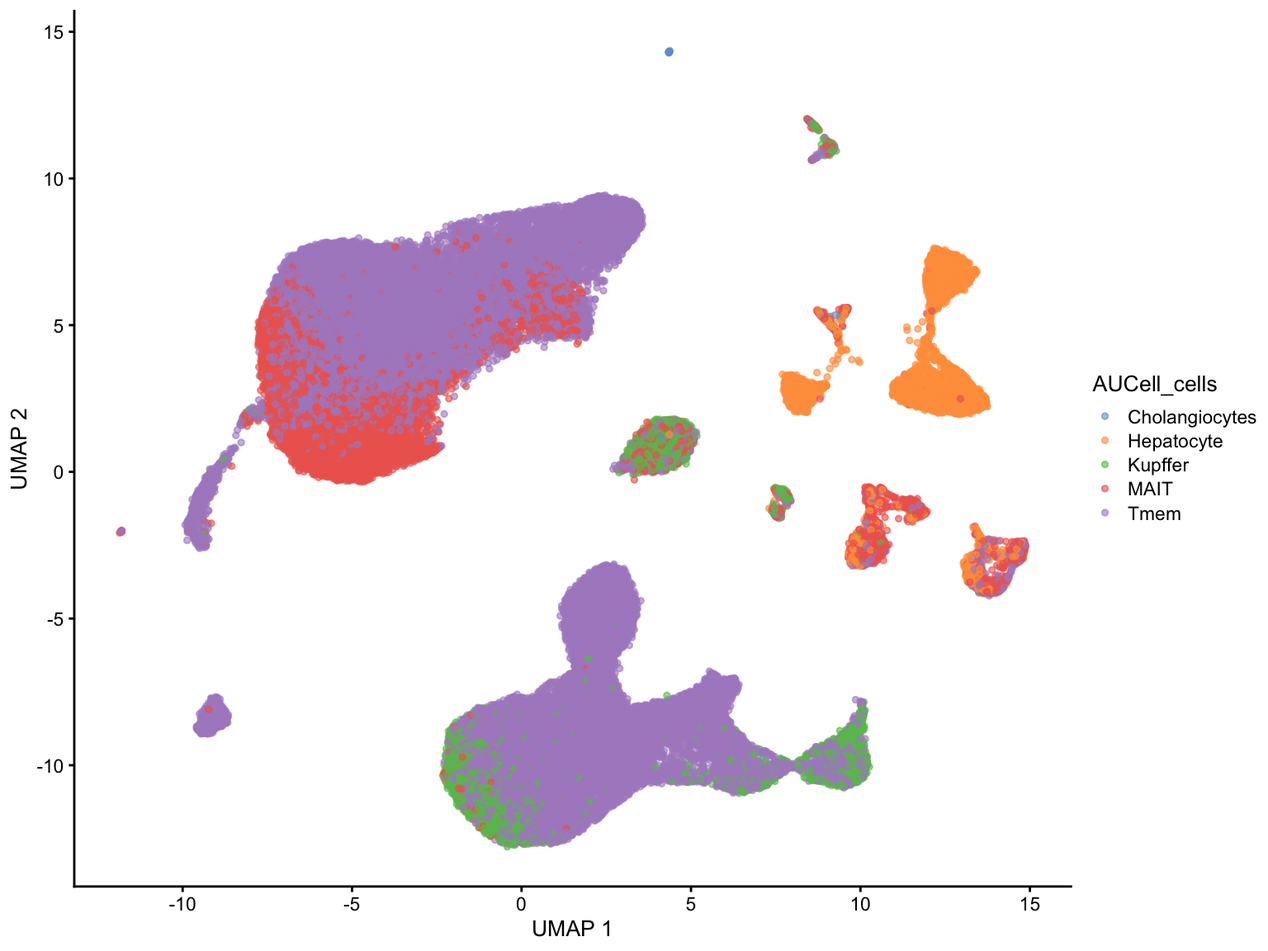
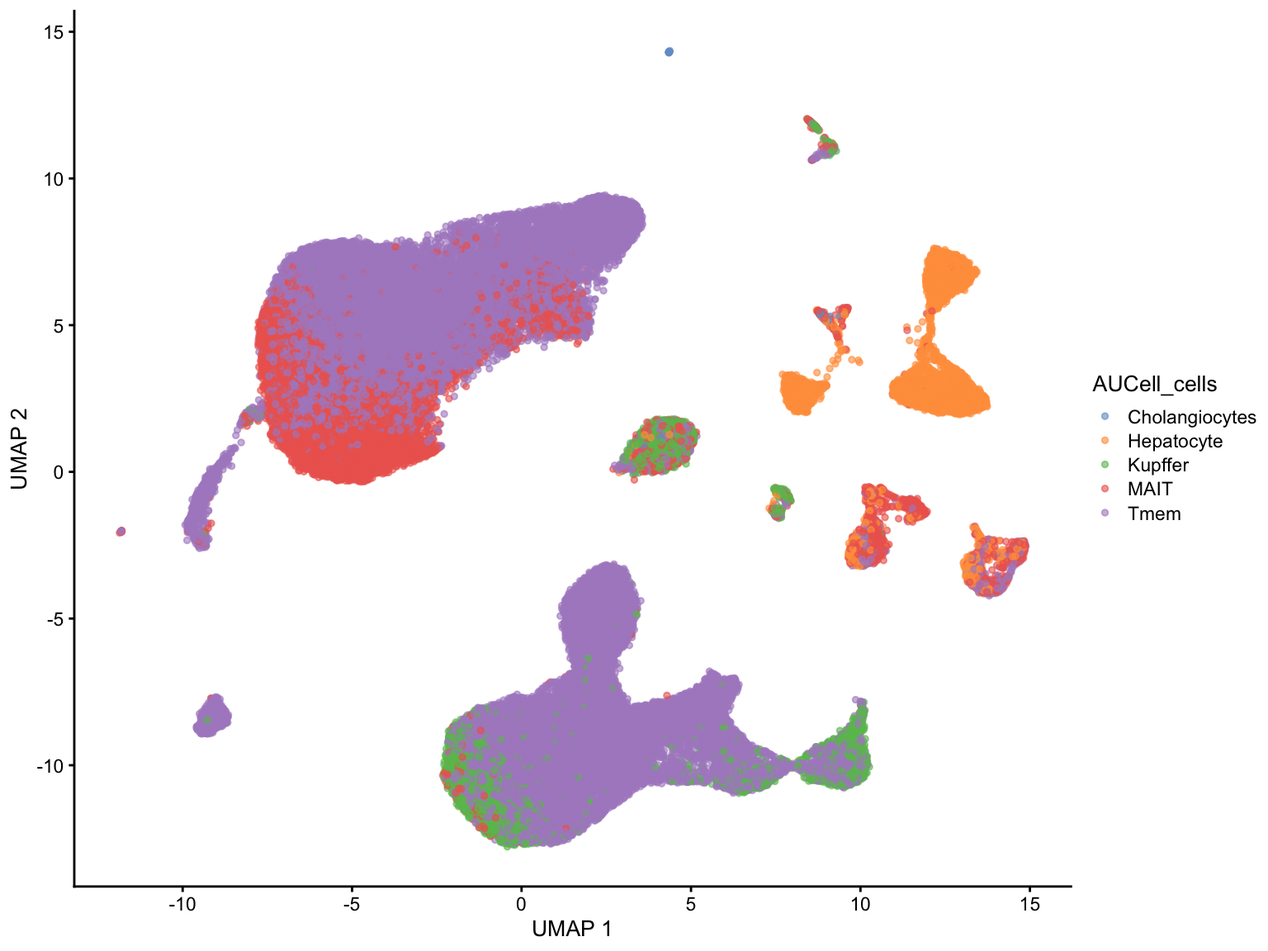
adjustments

diff --git a/R/6_Guilliams_dataset_analysis.html b/R/6_Guilliams_dataset_analysis.html
@@ -165,25 +165,14 @@ background: #f0f3f5;
 <div class="cell">
 <details>
 <summary>Code</summary>
-<div class="sourceCode cell-code" id="cb1"><pre class="sourceCode r code-with-copy"><code class="sourceCode r"><span id="cb1-1"><a href="#cb1-1" aria-hidden="true" tabindex="-1"></a><span class="fu">getwd</span>()</span></code><button title="Copy to Clipboard" class="code-copy-button"><i class="bi"></i></button></pre></div>
-</details>
-<div class="cell-output cell-output-stdout">
-<pre><code>[1] "/Users/osinnii/Documents/Github/scRNA-seq-workflow/scRNA-seq-workflow/R"</code></pre>
-</div>
-<details>
-<summary>Code</summary>
-<div class="sourceCode cell-code" id="cb3"><pre class="sourceCode r code-with-copy"><code class="sourceCode r"><span id="cb3-1"><a href="#cb3-1" aria-hidden="true" tabindex="-1"></a><span class="fu">library</span>(SingleCellExperiment)</span>
-<span id="cb3-2"><a href="#cb3-2" aria-hidden="true" tabindex="-1"></a><span class="fu">library</span>(SummarizedExperiment)</span>
-<span id="cb3-3"><a href="#cb3-3" aria-hidden="true" tabindex="-1"></a><span class="fu">library</span>(RSQLite)</span>
-<span id="cb3-4"><a href="#cb3-4" aria-hidden="true" tabindex="-1"></a><span class="fu">library</span>(AUCell)</span>
-<span id="cb3-5"><a href="#cb3-5" aria-hidden="true" tabindex="-1"></a><span class="fu">library</span>(ggplot2)</span>
-<span id="cb3-6"><a href="#cb3-6" aria-hidden="true" tabindex="-1"></a><span class="fu">library</span>(RColorBrewer)</span>
-<span id="cb3-7"><a href="#cb3-7" aria-hidden="true" tabindex="-1"></a><span class="fu">library</span>(tidyverse)</span>
-<span id="cb3-8"><a href="#cb3-8" aria-hidden="true" tabindex="-1"></a><span class="fu">library</span>(readxl)</span>
-<span id="cb3-9"><a href="#cb3-9" aria-hidden="true" tabindex="-1"></a><span class="fu">library</span>(scater)</span>
-<span id="cb3-10"><a href="#cb3-10" aria-hidden="true" tabindex="-1"></a><span class="fu">library</span>(uwot)</span>
-<span id="cb3-11"><a href="#cb3-11" aria-hidden="true" tabindex="-1"></a><span class="fu">library</span>(GSEABase)</span>
-<span id="cb3-12"><a href="#cb3-12" aria-hidden="true" tabindex="-1"></a><span class="fu">library</span>(Seurat)</span></code><button title="Copy to Clipboard" class="code-copy-button"><i class="bi"></i></button></pre></div>
+<div class="sourceCode cell-code" id="cb1"><pre class="sourceCode r code-with-copy"><code class="sourceCode r"><span id="cb1-1"><a href="#cb1-1" aria-hidden="true" tabindex="-1"></a><span class="fu">library</span>(SingleCellExperiment)</span>
+<span id="cb1-2"><a href="#cb1-2" aria-hidden="true" tabindex="-1"></a><span class="fu">library</span>(AUCell)</span>
+<span id="cb1-3"><a href="#cb1-3" aria-hidden="true" tabindex="-1"></a><span class="fu">library</span>(tidyverse)</span>
+<span id="cb1-4"><a href="#cb1-4" aria-hidden="true" tabindex="-1"></a><span class="fu">library</span>(scater)</span>
+<span id="cb1-5"><a href="#cb1-5" aria-hidden="true" tabindex="-1"></a><span class="fu">library</span>(uwot)</span>
+<span id="cb1-6"><a href="#cb1-6" aria-hidden="true" tabindex="-1"></a><span class="fu">library</span>(GSEABase)</span>
+<span id="cb1-7"><a href="#cb1-7" aria-hidden="true" tabindex="-1"></a><span class="fu">library</span>(Seurat)</span>
+<span id="cb1-8"><a href="#cb1-8" aria-hidden="true" tabindex="-1"></a><span class="fu">library</span>(readxl)</span></code><button title="Copy to Clipboard" class="code-copy-button"><i class="bi"></i></button></pre></div>
 </details>
 </div>
 <section id="load-previously-processed-guillaums-dataset-check-cells-on-umap." class="level3" data-number="2.0.1">
@@ -192,8 +181,8 @@ background: #f0f3f5;
 <div class="cell">
 <details>
 <summary>Code</summary>
-<div class="sourceCode cell-code" id="cb4"><pre class="sourceCode r code-with-copy"><code class="sourceCode r"><span id="cb4-1"><a href="#cb4-1" aria-hidden="true" tabindex="-1"></a>Gil.seurat <span class="ot">&lt;-</span> <span class="fu">readRDS</span>(<span class="st">"./../input/Gil_analyzed.rds"</span>)</span>
-<span id="cb4-2"><a href="#cb4-2" aria-hidden="true" tabindex="-1"></a>Gil.seurat</span></code><button title="Copy to Clipboard" class="code-copy-button"><i class="bi"></i></button></pre></div>
+<div class="sourceCode cell-code" id="cb2"><pre class="sourceCode r code-with-copy"><code class="sourceCode r"><span id="cb2-1"><a href="#cb2-1" aria-hidden="true" tabindex="-1"></a>Gil.seurat <span class="ot">&lt;-</span> <span class="fu">readRDS</span>(<span class="st">"./../input/Gil_analyzed.rds"</span>)</span>
+<span id="cb2-2"><a href="#cb2-2" aria-hidden="true" tabindex="-1"></a>Gil.seurat</span></code><button title="Copy to Clipboard" class="code-copy-button"><i class="bi"></i></button></pre></div>
 </details>
 <div class="cell-output cell-output-stdout">
 <pre><code>An object of class Seurat 
@@ -204,10 +193,7 @@ Active assay: RNA (28871 features, 2000 variable features)
 </div>
 <details>
 <summary>Code</summary>
-<div class="sourceCode cell-code" id="cb6"><pre class="sourceCode r code-with-copy"><code class="sourceCode r"><span id="cb6-1"><a href="#cb6-1" aria-hidden="true" tabindex="-1"></a><span class="co"># rm(Gil.seurat)</span></span>
-<span id="cb6-2"><a href="#cb6-2" aria-hidden="true" tabindex="-1"></a><span class="co"># lett.sce$MonacoImmuneData &lt;- lett.sce@colData@listData[["cellReferences_celldex_MonacoImmuneData"]]@listData[["labels"]]</span></span>
-<span id="cb6-3"><a href="#cb6-3" aria-hidden="true" tabindex="-1"></a></span>
-<span id="cb6-4"><a href="#cb6-4" aria-hidden="true" tabindex="-1"></a><span class="fu">DimPlot</span>(Gil.seurat, <span class="at">reduction =</span> <span class="st">"umap"</span>, <span class="at">group.by =</span> <span class="st">"annot"</span>, <span class="at">pt.size =</span> <span class="fl">1.0</span>)</span></code><button title="Copy to Clipboard" class="code-copy-button"><i class="bi"></i></button></pre></div>
+<div class="sourceCode cell-code" id="cb4"><pre class="sourceCode r code-with-copy"><code class="sourceCode r"><span id="cb4-1"><a href="#cb4-1" aria-hidden="true" tabindex="-1"></a><span class="fu">DimPlot</span>(Gil.seurat, <span class="at">reduction =</span> <span class="st">"umap"</span>, <span class="at">group.by =</span> <span class="st">"annot"</span>, <span class="at">pt.size =</span> <span class="fl">1.0</span>)</span></code><button title="Copy to Clipboard" class="code-copy-button"><i class="bi"></i></button></pre></div>
 </details>
 <div class="cell-output-display">
 <p><img src="6_Guilliams_dataset_analysis_files/figure-html/unnamed-chunk-2-1.png" class="img-fluid" width="768"></p>
@@ -220,10 +206,10 @@ Active assay: RNA (28871 features, 2000 variable features)
 <div class="cell">
 <details>
 <summary>Code</summary>
-<div class="sourceCode cell-code" id="cb7"><pre class="sourceCode r code-with-copy"><code class="sourceCode r"><span id="cb7-1"><a href="#cb7-1" aria-hidden="true" tabindex="-1"></a>sce_obj <span class="ot">&lt;-</span> <span class="fu">as.SingleCellExperiment</span>(Gil.seurat)</span>
-<span id="cb7-2"><a href="#cb7-2" aria-hidden="true" tabindex="-1"></a>Gil.sce <span class="ot">&lt;-</span> sce_obj</span>
-<span id="cb7-3"><a href="#cb7-3" aria-hidden="true" tabindex="-1"></a><span class="fu">rm</span>(Gil.seurat)</span>
-<span id="cb7-4"><a href="#cb7-4" aria-hidden="true" tabindex="-1"></a><span class="fu">rm</span>(sce_obj)</span></code><button title="Copy to Clipboard" class="code-copy-button"><i class="bi"></i></button></pre></div>
+<div class="sourceCode cell-code" id="cb5"><pre class="sourceCode r code-with-copy"><code class="sourceCode r"><span id="cb5-1"><a href="#cb5-1" aria-hidden="true" tabindex="-1"></a>sce_obj <span class="ot">&lt;-</span> <span class="fu">as.SingleCellExperiment</span>(Gil.seurat)</span>
+<span id="cb5-2"><a href="#cb5-2" aria-hidden="true" tabindex="-1"></a>Gil.sce <span class="ot">&lt;-</span> sce_obj</span>
+<span id="cb5-3"><a href="#cb5-3" aria-hidden="true" tabindex="-1"></a><span class="fu">rm</span>(Gil.seurat)</span>
+<span id="cb5-4"><a href="#cb5-4" aria-hidden="true" tabindex="-1"></a><span class="fu">rm</span>(sce_obj)</span></code><button title="Copy to Clipboard" class="code-copy-button"><i class="bi"></i></button></pre></div>
 </details>
 </div>
 </section>
@@ -233,7 +219,7 @@ Active assay: RNA (28871 features, 2000 variable features)
 <div class="cell">
 <details>
 <summary>Code</summary>
-<div class="sourceCode cell-code" id="cb8"><pre class="sourceCode r code-with-copy"><code class="sourceCode r"><span id="cb8-1"><a href="#cb8-1" aria-hidden="true" tabindex="-1"></a>genes <span class="ot">&lt;-</span><span class="fu">read_excel</span>(<span class="st">"./../input/CellMarkerMAITcells.xlsx"</span>, <span class="at">sheet =</span> <span class="dv">2</span>, <span class="at">col_names =</span> <span class="cn">TRUE</span>) <span class="do">## Garner and Pangao cell markers list</span></span></code><button title="Copy to Clipboard" class="code-copy-button"><i class="bi"></i></button></pre></div>
+<div class="sourceCode cell-code" id="cb6"><pre class="sourceCode r code-with-copy"><code class="sourceCode r"><span id="cb6-1"><a href="#cb6-1" aria-hidden="true" tabindex="-1"></a>genes <span class="ot">&lt;-</span><span class="fu">read_excel</span>(<span class="st">"./../input/CellMarkerMAITcells.xlsx"</span>, <span class="at">sheet =</span> <span class="dv">2</span>, <span class="at">col_names =</span> <span class="cn">TRUE</span>) <span class="do">## Garner and Pangao cell markers list</span></span></code><button title="Copy to Clipboard" class="code-copy-button"><i class="bi"></i></button></pre></div>
 </details>
 </div>
 </section>
@@ -245,10 +231,10 @@ Active assay: RNA (28871 features, 2000 variable features)
 <div class="cell">
 <details>
 <summary>Code</summary>
-<div class="sourceCode cell-code" id="cb9"><pre class="sourceCode r code-with-copy"><code class="sourceCode r"><span id="cb9-1"><a href="#cb9-1" aria-hidden="true" tabindex="-1"></a>all.sets <span class="ot">&lt;-</span> <span class="fu">lapply</span>(<span class="fu">names</span>(genes), <span class="cf">function</span>(x) {</span>
-<span id="cb9-2"><a href="#cb9-2" aria-hidden="true" tabindex="-1"></a>  <span class="fu">GeneSet</span>(genes[[x]], <span class="at">setName=</span>x)        </span>
-<span id="cb9-3"><a href="#cb9-3" aria-hidden="true" tabindex="-1"></a>})</span>
-<span id="cb9-4"><a href="#cb9-4" aria-hidden="true" tabindex="-1"></a>all.sets <span class="ot">&lt;-</span> <span class="fu">GeneSetCollection</span>(all.sets)</span></code><button title="Copy to Clipboard" class="code-copy-button"><i class="bi"></i></button></pre></div>
+<div class="sourceCode cell-code" id="cb7"><pre class="sourceCode r code-with-copy"><code class="sourceCode r"><span id="cb7-1"><a href="#cb7-1" aria-hidden="true" tabindex="-1"></a>all.sets <span class="ot">&lt;-</span> <span class="fu">lapply</span>(<span class="fu">names</span>(genes), <span class="cf">function</span>(x) {</span>
+<span id="cb7-2"><a href="#cb7-2" aria-hidden="true" tabindex="-1"></a>  <span class="fu">GeneSet</span>(genes[[x]], <span class="at">setName=</span>x)        </span>
+<span id="cb7-3"><a href="#cb7-3" aria-hidden="true" tabindex="-1"></a>})</span>
+<span id="cb7-4"><a href="#cb7-4" aria-hidden="true" tabindex="-1"></a>all.sets <span class="ot">&lt;-</span> <span class="fu">GeneSetCollection</span>(all.sets)</span></code><button title="Copy to Clipboard" class="code-copy-button"><i class="bi"></i></button></pre></div>
 </details>
 </div>
 </section>
@@ -257,11 +243,10 @@ Active assay: RNA (28871 features, 2000 variable features)
 <div class="cell">
 <details>
 <summary>Code</summary>
-<div class="sourceCode cell-code" id="cb10"><pre class="sourceCode r code-with-copy"><code class="sourceCode r"><span id="cb10-1"><a href="#cb10-1" aria-hidden="true" tabindex="-1"></a>rankings <span class="ot">&lt;-</span> <span class="fu">AUCell_buildRankings</span>(<span class="fu">counts</span>(Gil.sce),</span>
-<span id="cb10-2"><a href="#cb10-2" aria-hidden="true" tabindex="-1"></a>                                 <span class="at">plotStats=</span><span class="cn">FALSE</span>, <span class="at">verbose=</span><span class="cn">FALSE</span>)</span>
-<span id="cb10-3"><a href="#cb10-3" aria-hidden="true" tabindex="-1"></a><span class="co">#rm(rankings)</span></span>
-<span id="cb10-4"><a href="#cb10-4" aria-hidden="true" tabindex="-1"></a><span class="do">### Calculate AUC curves for each cell taking our markers</span></span>
-<span id="cb10-5"><a href="#cb10-5" aria-hidden="true" tabindex="-1"></a>cell.aucs <span class="ot">&lt;-</span> <span class="fu">AUCell_calcAUC</span>(all.sets, rankings)</span></code><button title="Copy to Clipboard" class="code-copy-button"><i class="bi"></i></button></pre></div>
+<div class="sourceCode cell-code" id="cb8"><pre class="sourceCode r code-with-copy"><code class="sourceCode r"><span id="cb8-1"><a href="#cb8-1" aria-hidden="true" tabindex="-1"></a>rankings <span class="ot">&lt;-</span> <span class="fu">AUCell_buildRankings</span>(<span class="fu">counts</span>(Gil.sce),</span>
+<span id="cb8-2"><a href="#cb8-2" aria-hidden="true" tabindex="-1"></a>                                 <span class="at">plotStats=</span><span class="cn">FALSE</span>, <span class="at">verbose=</span><span class="cn">FALSE</span>)</span>
+<span id="cb8-3"><a href="#cb8-3" aria-hidden="true" tabindex="-1"></a><span class="do">### Calculate AUC curves for each cell taking our markers</span></span>
+<span id="cb8-4"><a href="#cb8-4" aria-hidden="true" tabindex="-1"></a>cell.aucs <span class="ot">&lt;-</span> <span class="fu">AUCell_calcAUC</span>(all.sets, rankings)</span></code><button title="Copy to Clipboard" class="code-copy-button"><i class="bi"></i></button></pre></div>
 </details>
 <div class="cell-output cell-output-stderr">
 <pre><code>Genes in the gene sets NOT available in the dataset: 
@@ -273,7 +258,7 @@ Active assay: RNA (28871 features, 2000 variable features)
 </div>
 <details>
 <summary>Code</summary>
-<div class="sourceCode cell-code" id="cb12"><pre class="sourceCode r code-with-copy"><code class="sourceCode r"><span id="cb12-1"><a href="#cb12-1" aria-hidden="true" tabindex="-1"></a>results <span class="ot">&lt;-</span> <span class="fu">t</span>(<span class="fu">assay</span>(cell.aucs))</span></code><button title="Copy to Clipboard" class="code-copy-button"><i class="bi"></i></button></pre></div>
+<div class="sourceCode cell-code" id="cb10"><pre class="sourceCode r code-with-copy"><code class="sourceCode r"><span id="cb10-1"><a href="#cb10-1" aria-hidden="true" tabindex="-1"></a>results <span class="ot">&lt;-</span> <span class="fu">t</span>(<span class="fu">assay</span>(cell.aucs))</span></code><button title="Copy to Clipboard" class="code-copy-button"><i class="bi"></i></button></pre></div>
 </details>
 </div>
 </section>
@@ -282,53 +267,53 @@ Active assay: RNA (28871 features, 2000 variable features)
 <div class="cell">
 <details>
 <summary>Code</summary>
-<div class="sourceCode cell-code" id="cb13"><pre class="sourceCode r code-with-copy"><code class="sourceCode r"><span id="cb13-1"><a href="#cb13-1" aria-hidden="true" tabindex="-1"></a>new.labels <span class="ot">&lt;-</span> <span class="fu">colnames</span>(results)[<span class="fu">max.col</span>(results)]</span>
-<span id="cb13-2"><a href="#cb13-2" aria-hidden="true" tabindex="-1"></a></span>
-<span id="cb13-3"><a href="#cb13-3" aria-hidden="true" tabindex="-1"></a>tab <span class="ot">&lt;-</span> <span class="fu">table</span>(new.labels, Gil.sce<span class="sc">$</span>annot)</span>
-<span id="cb13-4"><a href="#cb13-4" aria-hidden="true" tabindex="-1"></a>tab</span></code><button title="Copy to Clipboard" class="code-copy-button"><i class="bi"></i></button></pre></div>
+<div class="sourceCode cell-code" id="cb11"><pre class="sourceCode r code-with-copy"><code class="sourceCode r"><span id="cb11-1"><a href="#cb11-1" aria-hidden="true" tabindex="-1"></a>new.labels <span class="ot">&lt;-</span> <span class="fu">colnames</span>(results)[<span class="fu">max.col</span>(results)]</span>
+<span id="cb11-2"><a href="#cb11-2" aria-hidden="true" tabindex="-1"></a></span>
+<span id="cb11-3"><a href="#cb11-3" aria-hidden="true" tabindex="-1"></a>tab <span class="ot">&lt;-</span> <span class="fu">table</span>(new.labels, Gil.sce<span class="sc">$</span>annot)</span>
+<span id="cb11-4"><a href="#cb11-4" aria-hidden="true" tabindex="-1"></a>tab</span></code><button title="Copy to Clipboard" class="code-copy-button"><i class="bi"></i></button></pre></div>
 </details>
 <div class="cell-output cell-output-stdout">
 <pre><code>                
 new.labels       B cells Basophils cDC1s cDC2s Cholangiocytes
-  Cholangiocytes       0         1     0     0            100
-  Hepatocyte           0         1     0     0            152
-  Kupffer              1        16     0     0              1
-  MAIT                 3        55     0     0            169
-  Tmem               752        98   229   891              8
+  Cholangiocytes       0         0     0     0            102
+  Hepatocyte           0         1     0     0            137
+  Kupffer              0        15     0     0              1
+  MAIT                 3        54     0     0            184
+  Tmem               753       101   229   891              6
                 
 new.labels       Circulating NK/NKT Endothelial cells Fibroblasts Hepatocytes
-  Cholangiocytes                  0                 4           1           0
-  Hepatocyte                      0               275         287        3796
+  Cholangiocytes                  0                 3           4           0
+  Hepatocyte                      0               281         295        3795
   Kupffer                         0               161           4           1
-  MAIT                           10              1283         509          39
-  Tmem                         3472               245         303           4
+  MAIT                           13              1274         508          39
+  Tmem                         3469               249         293           5
                 
 new.labels       Macrophages Mig.cDCs Mono+mono derived cells Neutrophils  pDCs
-  Cholangiocytes           0        0                       0           8     0
-  Hepatocyte              37        0                       0          22     2
-  Kupffer               1644        0                    1693        2235     3
-  MAIT                   124        0                     122         960     3
-  Tmem                  1440       18                   16186        1613   813
+  Cholangiocytes           0        0                       0          10     0
+  Hepatocyte              34        0                       1          16     2
+  Kupffer               1615        0                    1704        2237     3
+  MAIT                   121        0                     134         961     2
+  Tmem                  1475       18                   16162        1614   814
                 
 new.labels       Plasma cells Resident NK T cells
   Cholangiocytes            0           0       1
-  Hepatocyte                2           1       6
-  Kupffer                   5           1       8
-  MAIT                      7         868   12526
-  Tmem                    202        2288   23039</code></pre>
+  Hepatocyte                2           1       5
+  Kupffer                   4           0       9
+  MAIT                     11         876   12464
+  Tmem                    199        2281   23101</code></pre>
 </div>
 </div>
-<p>We can see that many other cell types got mislabeled as MAIT cells. This may be due to the batch effect between reference datasets and current data</p>
+<p>We can see that many other cell types got mislabeled as MAIT and Tmem cells. This may be due to the batch effect between reference datasets and current data</p>
 </section>
 <section id="assign-our-new-labels-to-coldata-of-the-sce-object" class="level3" data-number="3.0.4">
 <h3 data-number="3.0.4" class="anchored" data-anchor-id="assign-our-new-labels-to-coldata-of-the-sce-object"><span class="header-section-number">3.0.4</span> Assign our new labels to colData of the SCE object</h3>
 <div class="cell">
 <details>
 <summary>Code</summary>
-<div class="sourceCode cell-code" id="cb15"><pre class="sourceCode r code-with-copy"><code class="sourceCode r"><span id="cb15-1"><a href="#cb15-1" aria-hidden="true" tabindex="-1"></a>new_labels_df <span class="ot">&lt;-</span> <span class="fu">DataFrame</span>(new.labels)</span>
-<span id="cb15-2"><a href="#cb15-2" aria-hidden="true" tabindex="-1"></a><span class="co"># Now assign the DataFrame to colData</span></span>
-<span id="cb15-3"><a href="#cb15-3" aria-hidden="true" tabindex="-1"></a><span class="fu">colData</span>(Gil.sce) <span class="ot">&lt;-</span> new_labels_df</span>
-<span id="cb15-4"><a href="#cb15-4" aria-hidden="true" tabindex="-1"></a>Gil.sce<span class="sc">$</span>AUCell_cells <span class="ot">&lt;-</span> Gil.sce<span class="sc">$</span>new.labels</span></code><button title="Copy to Clipboard" class="code-copy-button"><i class="bi"></i></button></pre></div>
+<div class="sourceCode cell-code" id="cb13"><pre class="sourceCode r code-with-copy"><code class="sourceCode r"><span id="cb13-1"><a href="#cb13-1" aria-hidden="true" tabindex="-1"></a>new_labels_df <span class="ot">&lt;-</span> <span class="fu">DataFrame</span>(new.labels)</span>
+<span id="cb13-2"><a href="#cb13-2" aria-hidden="true" tabindex="-1"></a><span class="co"># Now assign the DataFrame to colData</span></span>
+<span id="cb13-3"><a href="#cb13-3" aria-hidden="true" tabindex="-1"></a><span class="fu">colData</span>(Gil.sce) <span class="ot">&lt;-</span> new_labels_df</span>
+<span id="cb13-4"><a href="#cb13-4" aria-hidden="true" tabindex="-1"></a>Gil.sce<span class="sc">$</span>AUCell_cells <span class="ot">&lt;-</span> Gil.sce<span class="sc">$</span>new.labels</span></code><button title="Copy to Clipboard" class="code-copy-button"><i class="bi"></i></button></pre></div>
 </details>
 </div>
 </section>
@@ -337,7 +322,7 @@ new.labels       Plasma cells Resident NK T cells
 <div class="cell">
 <details>
 <summary>Code</summary>
-<div class="sourceCode cell-code" id="cb16"><pre class="sourceCode r code-with-copy"><code class="sourceCode r"><span id="cb16-1"><a href="#cb16-1" aria-hidden="true" tabindex="-1"></a><span class="fu">plotUMAP</span>(Gil.sce, <span class="at">colour_by =</span> <span class="st">"AUCell_cells"</span>, <span class="at">point_size =</span> <span class="fl">1.0</span>)</span></code><button title="Copy to Clipboard" class="code-copy-button"><i class="bi"></i></button></pre></div>
+<div class="sourceCode cell-code" id="cb14"><pre class="sourceCode r code-with-copy"><code class="sourceCode r"><span id="cb14-1"><a href="#cb14-1" aria-hidden="true" tabindex="-1"></a><span class="fu">plotUMAP</span>(Gil.sce, <span class="at">colour_by =</span> <span class="st">"AUCell_cells"</span>, <span class="at">point_size =</span> <span class="fl">1.0</span>)</span></code><button title="Copy to Clipboard" class="code-copy-button"><i class="bi"></i></button></pre></div>
 </details>
 <div class="cell-output-display">
 <p><img src="6_Guilliams_dataset_analysis_files/figure-html/unnamed-chunk-9-1.png" class="img-fluid" width="768"></p>
@@ -348,14 +333,15 @@ new.labels       Plasma cells Resident NK T cells
 <h3 data-number="3.0.6" class="anchored" data-anchor-id="conclusion"><span class="header-section-number">3.0.6</span> Conclusion</h3>
 <p>Comparing the native cell annotations and new annotations I see a few major problems here. First, T mem cell get spilled over to those previously labeled as Mono-derived and NK cells. Next MAIT cells get imposed on a subset of those previously labeled as circulating NKT/NK cells and some others. Hepatocytes seem to be roughly labeled similarly as in original analysis.</p>
 <p>So further analysis is needed to refine these results. Perhaps, one would need to cross-check between gene markers sets we chose and the sets derived from other databases, especially dedicated to immune cells.</p>
+<button class="accordion-button" type="button" data-bs-toggle="collapse" data-bs-target="#collapseOne">
 <p>Session Information</p>
-
+</button>
 <div id="collapseOne" class="accordion-collapse collapse">
 <div>
 <div class="cell">
 <details>
 <summary>Code</summary>
-<div class="sourceCode cell-code" id="cb17"><pre class="sourceCode r code-with-copy"><code class="sourceCode r"><span id="cb17-1"><a href="#cb17-1" aria-hidden="true" tabindex="-1"></a><span class="fu">sessionInfo</span>()</span></code><button title="Copy to Clipboard" class="code-copy-button"><i class="bi"></i></button></pre></div>
+<div class="sourceCode cell-code" id="cb15"><pre class="sourceCode r code-with-copy"><code class="sourceCode r"><span id="cb15-1"><a href="#cb15-1" aria-hidden="true" tabindex="-1"></a><span class="fu">sessionInfo</span>()</span></code><button title="Copy to Clipboard" class="code-copy-button"><i class="bi"></i></button></pre></div>
 </details>
 <div class="cell-output cell-output-stdout">
 <pre><code>R version 4.3.3 (2024-02-29)
@@ -377,29 +363,28 @@ attached base packages:
 [8] base     
 
 other attached packages:
- [1] Seurat_5.0.3                SeuratObject_5.0.1         
- [3] sp_2.1-3                    GSEABase_1.64.0            
- [5] graph_1.80.0                annotate_1.80.0            
- [7] XML_3.99-0.16.1             AnnotationDbi_1.64.1       
- [9] uwot_0.1.16                 Matrix_1.6-5               
-[11] scater_1.30.1               scuttle_1.12.0             
-[13] readxl_1.4.3                lubridate_1.9.3            
+ [1] readxl_1.4.3                Seurat_5.0.3               
+ [3] SeuratObject_5.0.1          sp_2.1-3                   
+ [5] GSEABase_1.64.0             graph_1.80.0               
+ [7] annotate_1.80.0             XML_3.99-0.16.1            
+ [9] AnnotationDbi_1.64.1        uwot_0.1.16                
+[11] Matrix_1.6-5                scater_1.30.1              
+[13] scuttle_1.12.0              lubridate_1.9.3            
 [15] forcats_1.0.0               stringr_1.5.1              
 [17] dplyr_1.1.4                 purrr_1.0.2                
 [19] readr_2.1.5                 tidyr_1.3.1                
-[21] tibble_3.2.1                tidyverse_2.0.0            
-[23] RColorBrewer_1.1-3          ggplot2_3.5.0              
-[25] AUCell_1.24.0               RSQLite_2.3.6              
-[27] SingleCellExperiment_1.24.0 SummarizedExperiment_1.32.0
-[29] Biobase_2.62.0              GenomicRanges_1.54.1       
-[31] GenomeInfoDb_1.38.8         IRanges_2.36.0             
-[33] S4Vectors_0.40.2            BiocGenerics_0.48.1        
-[35] MatrixGenerics_1.14.0       matrixStats_1.2.0          
+[21] tibble_3.2.1                ggplot2_3.5.0              
+[23] tidyverse_2.0.0             AUCell_1.24.0              
+[25] SingleCellExperiment_1.24.0 SummarizedExperiment_1.32.0
+[27] Biobase_2.62.0              GenomicRanges_1.54.1       
+[29] GenomeInfoDb_1.38.8         IRanges_2.36.0             
+[31] S4Vectors_0.40.2            BiocGenerics_0.48.1        
+[33] MatrixGenerics_1.14.0       matrixStats_1.2.0          
 
 loaded via a namespace (and not attached):
   [1] RcppAnnoy_0.0.22          splines_4.3.3            
   [3] later_1.3.2               bitops_1.0-7             
-  [5] R.oo_1.26.0               cellranger_1.1.0         
+  [5] cellranger_1.1.0          R.oo_1.26.0              
   [7] polyclip_1.10-6           fastDummies_1.7.3        
   [9] lifecycle_1.0.4           globals_0.16.3           
  [11] lattice_0.22-6            MASS_7.3-60.0.1          
@@ -407,65 +392,66 @@ loaded via a namespace (and not attached):
  [15] rmarkdown_2.26            yaml_2.3.8               
  [17] httpuv_1.6.15             sctransform_0.4.1        
  [19] spam_2.10-0               spatstat.sparse_3.0-3    
- [21] reticulate_1.35.0         pbapply_1.7-2            
- [23] cowplot_1.1.3             DBI_1.2.2                
- [25] abind_1.4-5               zlibbioc_1.48.2          
- [27] Rtsne_0.17                R.utils_2.12.3           
- [29] RCurl_1.98-1.14           GenomeInfoDbData_1.2.11  
- [31] ggrepel_0.9.5             irlba_2.3.5.1            
- [33] spatstat.utils_3.0-4      listenv_0.9.1            
- [35] goftest_1.2-3             RSpectra_0.16-1          
- [37] spatstat.random_3.2-3     fitdistrplus_1.1-11      
- [39] parallelly_1.37.1         DelayedMatrixStats_1.24.0
- [41] leiden_0.4.3.1            codetools_0.2-20         
- [43] DelayedArray_0.28.0       tidyselect_1.2.1         
- [45] farver_2.1.1              ScaledMatrix_1.10.0      
- [47] viridis_0.6.5             spatstat.explore_3.2-7   
- [49] jsonlite_1.8.8            BiocNeighbors_1.20.2     
- [51] progressr_0.14.0          ggridges_0.5.6           
- [53] survival_3.5-8            tools_4.3.3              
- [55] ica_1.0-3                 Rcpp_1.0.12              
- [57] glue_1.7.0                gridExtra_2.3            
- [59] SparseArray_1.2.4         xfun_0.43                
- [61] withr_3.0.0               fastmap_1.1.1            
- [63] fansi_1.0.6               digest_0.6.35            
- [65] rsvd_1.0.5                timechange_0.3.0         
- [67] R6_2.5.1                  mime_0.12                
- [69] colorspace_2.1-0          scattermore_1.2          
- [71] tensor_1.5                spatstat.data_3.0-4      
- [73] R.methodsS3_1.8.2         utf8_1.2.4               
- [75] generics_0.1.3            data.table_1.15.4        
- [77] httr_1.4.7                htmlwidgets_1.6.4        
- [79] S4Arrays_1.2.1            pkgconfig_2.0.3          
- [81] gtable_0.3.4              blob_1.2.4               
- [83] lmtest_0.9-40             XVector_0.42.0           
- [85] htmltools_0.5.8.1         dotCall64_1.1-1          
- [87] scales_1.3.0              png_0.1-8                
- [89] knitr_1.45                rstudioapi_0.16.0        
- [91] reshape2_1.4.4            tzdb_0.4.0               
- [93] nlme_3.1-164              cachem_1.0.8             
- [95] zoo_1.8-12                KernSmooth_2.23-22       
- [97] parallel_4.3.3            miniUI_0.1.1.1           
- [99] vipor_0.4.7               pillar_1.9.0             
-[101] grid_4.3.3                vctrs_0.6.5              
-[103] RANN_2.6.1                promises_1.2.1           
-[105] BiocSingular_1.18.0       beachmat_2.18.1          
-[107] xtable_1.8-4              cluster_2.1.6            
-[109] beeswarm_0.4.0            evaluate_0.23            
-[111] cli_3.6.2                 compiler_4.3.3           
-[113] rlang_1.1.3               crayon_1.5.2             
-[115] future.apply_1.11.2       labeling_0.4.3           
-[117] plyr_1.8.9                ggbeeswarm_0.7.2         
-[119] stringi_1.8.3             deldir_2.0-4             
-[121] viridisLite_0.4.2         BiocParallel_1.36.0      
-[123] munsell_0.5.1             Biostrings_2.70.3        
-[125] lazyeval_0.2.2            spatstat.geom_3.2-9      
-[127] RcppHNSW_0.6.0            hms_1.1.3                
-[129] patchwork_1.2.0           sparseMatrixStats_1.14.0 
-[131] bit64_4.0.5               future_1.33.2            
-[133] KEGGREST_1.42.0           shiny_1.8.1.1            
-[135] ROCR_1.0-11               igraph_2.0.3             
-[137] memoise_2.0.1             bit_4.0.5                </code></pre>
+ [21] reticulate_1.35.0         cowplot_1.1.3            
+ [23] pbapply_1.7-2             DBI_1.2.2                
+ [25] RColorBrewer_1.1-3        abind_1.4-5              
+ [27] zlibbioc_1.48.2           Rtsne_0.17               
+ [29] R.utils_2.12.3            RCurl_1.98-1.14          
+ [31] GenomeInfoDbData_1.2.11   ggrepel_0.9.5            
+ [33] irlba_2.3.5.1             spatstat.utils_3.0-4     
+ [35] listenv_0.9.1             goftest_1.2-3            
+ [37] RSpectra_0.16-1           spatstat.random_3.2-3    
+ [39] fitdistrplus_1.1-11       parallelly_1.37.1        
+ [41] DelayedMatrixStats_1.24.0 leiden_0.4.3.1           
+ [43] codetools_0.2-20          DelayedArray_0.28.0      
+ [45] tidyselect_1.2.1          farver_2.1.1             
+ [47] ScaledMatrix_1.10.0       viridis_0.6.5            
+ [49] spatstat.explore_3.2-7    jsonlite_1.8.8           
+ [51] BiocNeighbors_1.20.2      progressr_0.14.0         
+ [53] ggridges_0.5.6            survival_3.5-8           
+ [55] tools_4.3.3               ica_1.0-3                
+ [57] Rcpp_1.0.12               glue_1.7.0               
+ [59] gridExtra_2.3             SparseArray_1.2.4        
+ [61] xfun_0.43                 withr_3.0.0              
+ [63] fastmap_1.1.1             fansi_1.0.6              
+ [65] digest_0.6.35             rsvd_1.0.5               
+ [67] timechange_0.3.0          R6_2.5.1                 
+ [69] mime_0.12                 colorspace_2.1-0         
+ [71] scattermore_1.2           tensor_1.5               
+ [73] spatstat.data_3.0-4       RSQLite_2.3.6            
+ [75] R.methodsS3_1.8.2         utf8_1.2.4               
+ [77] generics_0.1.3            data.table_1.15.4        
+ [79] httr_1.4.7                htmlwidgets_1.6.4        
+ [81] S4Arrays_1.2.1            pkgconfig_2.0.3          
+ [83] gtable_0.3.4              blob_1.2.4               
+ [85] lmtest_0.9-40             XVector_0.42.0           
+ [87] htmltools_0.5.8.1         dotCall64_1.1-1          
+ [89] scales_1.3.0              png_0.1-8                
+ [91] knitr_1.45                rstudioapi_0.16.0        
+ [93] reshape2_1.4.4            tzdb_0.4.0               
+ [95] nlme_3.1-164              cachem_1.0.8             
+ [97] zoo_1.8-12                KernSmooth_2.23-22       
+ [99] parallel_4.3.3            miniUI_0.1.1.1           
+[101] vipor_0.4.7               pillar_1.9.0             
+[103] grid_4.3.3                vctrs_0.6.5              
+[105] RANN_2.6.1                promises_1.2.1           
+[107] BiocSingular_1.18.0       beachmat_2.18.1          
+[109] xtable_1.8-4              cluster_2.1.6            
+[111] beeswarm_0.4.0            evaluate_0.23            
+[113] cli_3.6.2                 compiler_4.3.3           
+[115] rlang_1.1.3               crayon_1.5.2             
+[117] future.apply_1.11.2       labeling_0.4.3           
+[119] plyr_1.8.9                ggbeeswarm_0.7.2         
+[121] stringi_1.8.3             deldir_2.0-4             
+[123] viridisLite_0.4.2         BiocParallel_1.36.0      
+[125] munsell_0.5.1             Biostrings_2.70.3        
+[127] lazyeval_0.2.2            spatstat.geom_3.2-9      
+[129] RcppHNSW_0.6.0            hms_1.1.3                
+[131] patchwork_1.2.0           sparseMatrixStats_1.14.0 
+[133] bit64_4.0.5               future_1.33.2            
+[135] KEGGREST_1.42.0           shiny_1.8.1.1            
+[137] ROCR_1.0-11               igraph_2.0.3             
+[139] memoise_2.0.1             bit_4.0.5                </code></pre>
 </div>
 </div>
 </div>
